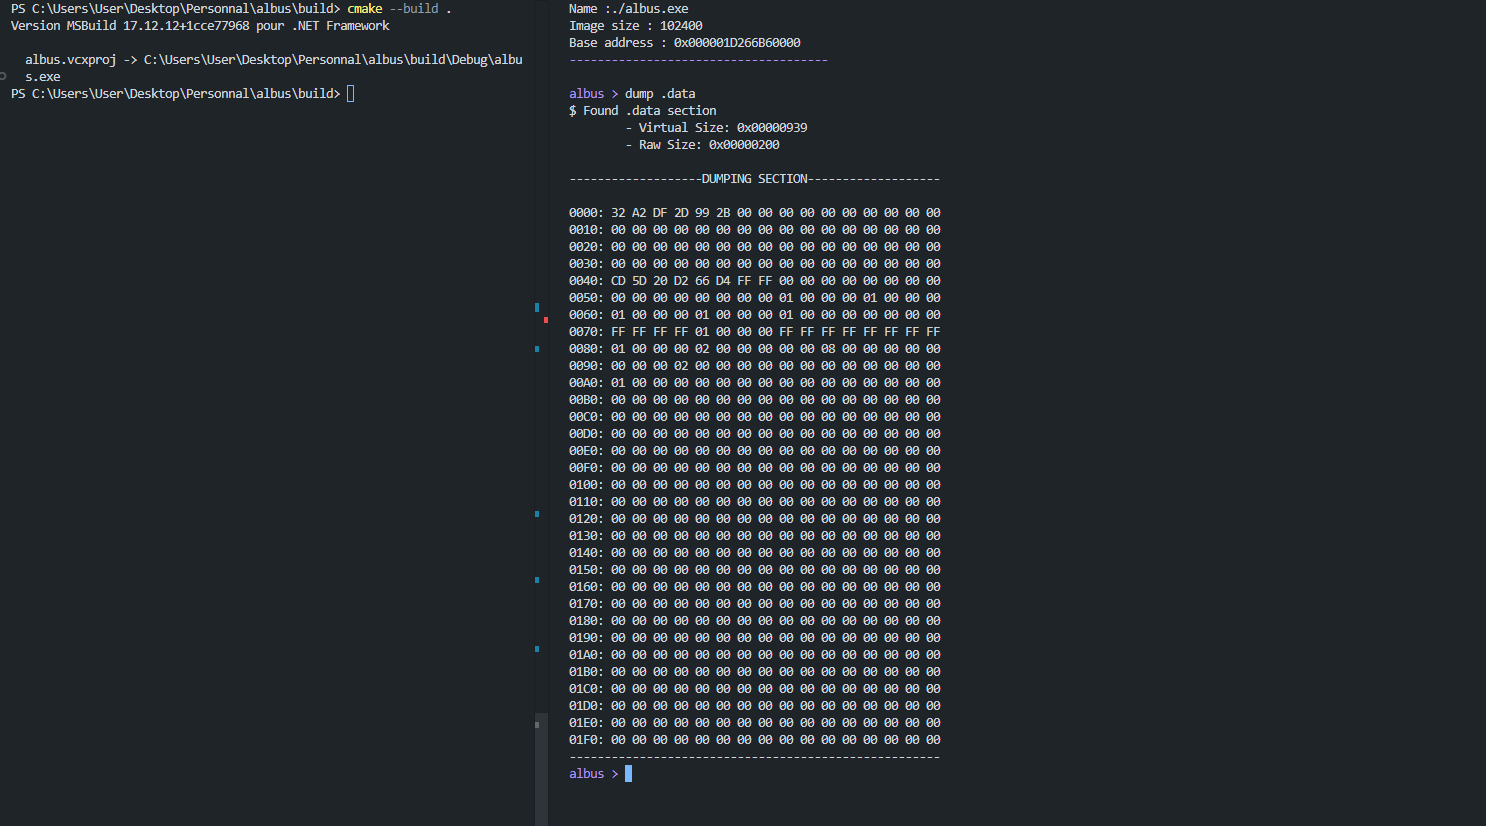
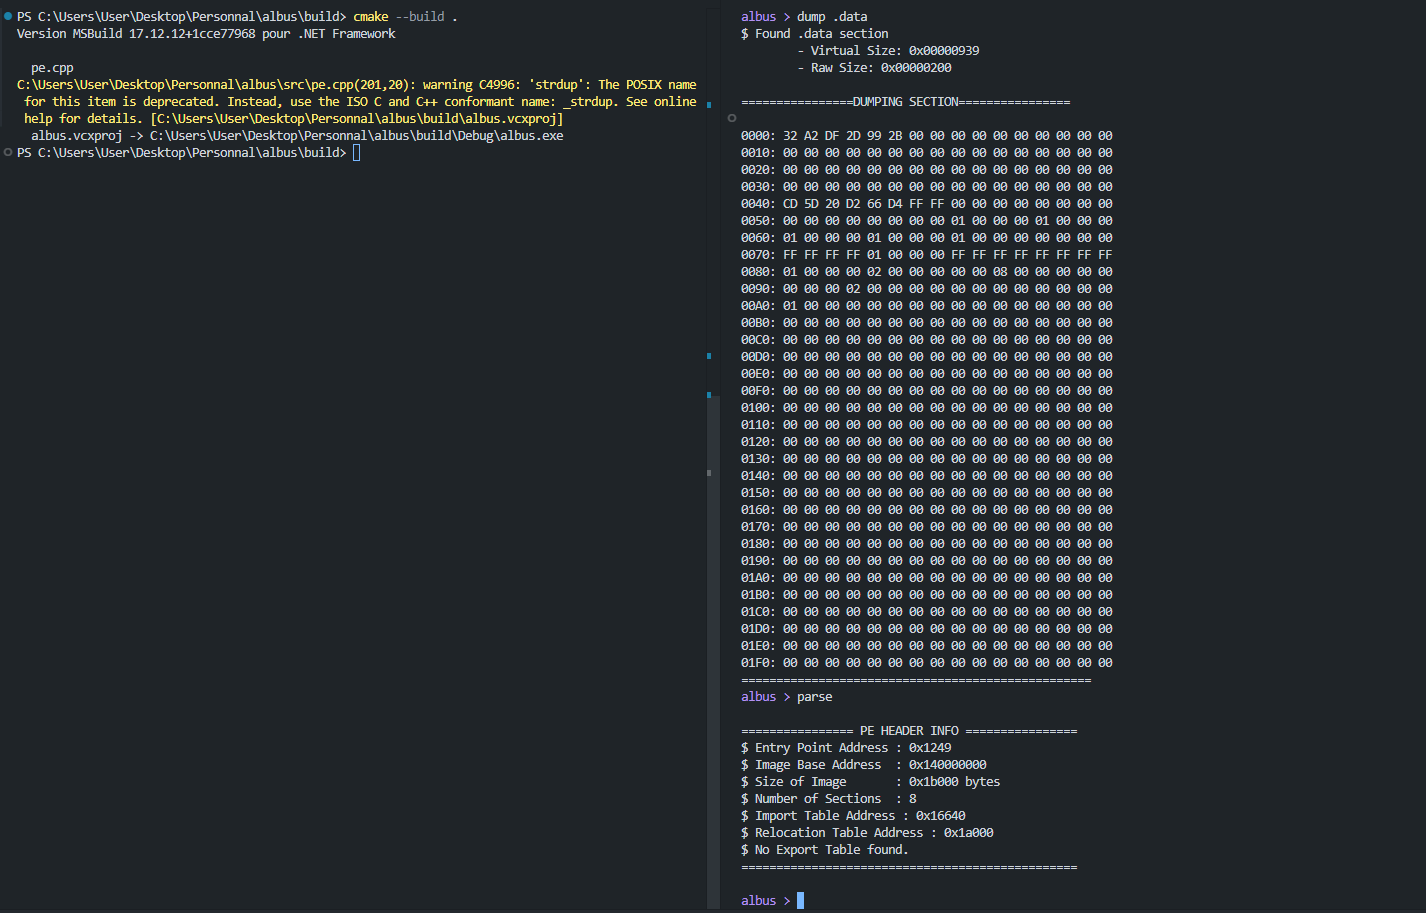
UPDATE : base corrections & new command : parsing

Changed region(s): [[0.0, 0.0, 0.8022, 0.9988]]

diff --git a/src/pe.cpp b/src/pe.cpp
@@ -72,6 +72,7 @@ VOID Pe::Init(){
     this->AddBuiltin("unload", &Pe::Unload);
     this->AddBuiltin("infos", &Pe::Infos);
     this->AddBuiltin("dump", &Pe::Dump);
+    this->AddBuiltin("parse", &Pe::Parse);
 }
 
 /**
@@ -80,14 +81,24 @@ VOID Pe::Init(){
 VOID Pe::Clean(){
     this->dwSizeOfImage = 0;
 
-    if(this->pRawPe)
+    if (this->pBuff) {
+        MEMORY_BASIC_INFORMATION mbi;
+
+        if (VirtualQuery(this->pBuff, &mbi, sizeof(mbi)))
+            VirtualFree(this->pBuff, 0, MEM_RELEASE);
+
+        this->pBuff = nullptr;
+    }
+
+    if(this->pRawPe){
         HeapFree(GetProcessHeap(), 0, this->pRawPe);
+        this->pRawPe = nullptr;
+    }
 
-    if(this->pBuff)
-        VirtualFree(this->pBuff, this->dwSizeOfImage, MEM_RELEASE);
-
-    if(this->lpPath)
+    if(this->lpPath){
         free((VOID*)this->lpPath);
+        this->lpPath = nullptr;
+    }
 }
 
 /**
@@ -114,17 +125,13 @@ VOID Pe::HandleCommand(IN CHAR **args){
  */
 VOID Pe::Infos(IN CHAR**){
     if(this->pBuff){
-        Ft_console::SetBashColor(13);
-        std::cout << "\n-------------------------------------" << std::endl;
-        Ft_console::SetBashColor(7);
+        std::cout << "\n================ LOADED FILE ================" << std::endl;
 
-        std::cout << "LOADED PE INFORMATIONS : \n" << std::endl;
         std::cout << "Name :" << this->lpPath << std::endl;
-        std::cout << "Image size : " << this->dwSizeOfImage << std::endl;
+        std::cout << "Image size : " << this->dwSizeOfImage << " bytes" << std::endl;
         std::cout << "Base address : " << "0x" << static_cast<void*>(this->pBuff) << std::endl;
 
-        Ft_console::SetBashColor(13);
-        std::cout << "-------------------------------------" << std::endl;
+        std::cout << "==============================================" << std::endl;
         Ft_console::SetBashColor(7);
         printf("\n"); 
     }
@@ -140,17 +147,9 @@ VOID Pe::Unload(IN CHAR**){
     if(this->pBuff == nullptr){
         std::cout << "$ No PE mapped. try using help command for mapping a file." << std::endl;
     }
-    else {        
-        VirtualFree(this->pBuff, this->dwSizeOfImage, MEM_RELEASE);
-        std::cout << "$ Successfully unloaded " << this->lpPath << std::endl;
-
-        this->dwSizeOfImage = 0;
-
-        if(this->lpPath)
-            free((VOID*)this->lpPath);
-
-        if(this->pRawPe)
-            HeapFree(GetProcessHeap(), 0, this->pRawPe);
+    else {   
+        this->Clean();
+        std::cout << "$ Successfully unloaded PE file." << std::endl;
     }
 }
 
@@ -203,18 +202,10 @@ VOID Pe::Load(IN CHAR **args){
     this->dwSizeOfImage = pNtHdr->OptionalHeader.SizeOfImage;
 
     std::cout << "\n\n$ Successfully mapped PE into memory.\n" << std::endl;
-
-    if(this->pRawPe)
-        HeapFree(GetProcessHeap(), 0, this->pRawPe);
-        
     return;
 
 __ERROR:
-    if(this->pRawPe)
-        HeapFree(GetProcessHeap(), 0, this->pRawPe);
-    
-    if(this->pBuff)
-        VirtualFree(this->pBuff, pNtHdr->OptionalHeader.SizeOfImage, MEM_RELEASE);
+    this->Clean();
 }
 
 /**
@@ -252,7 +243,8 @@ VOID Pe::Dump(IN CHAR **args){
             printf("\t- Virtual Size: 0x%08X\n", pSection[i].Misc.VirtualSize);
             printf("\t- Raw Size: 0x%08X\n", pSection[i].SizeOfRawData);
 
-            std::cout << "\n-------------------DUMPING SECTION-------------------" << std::endl;
+            std::cout << "\n================DUMPING SECTION================" << std::endl;
+
             BYTE* pStartSection = ((BYTE*)pRawPe + pSection[i].PointerToRawData);
             for(DWORD j = 0; j < pSection[i].SizeOfRawData; j++){
                 if(j % 16 == 0) printf("\n%04X: ", j);
@@ -260,10 +252,69 @@ VOID Pe::Dump(IN CHAR **args){
             }
 
             printf("\n");
-            std::cout << "-----------------------------------------------------" << std::endl;
+            std::cout << "==================================================" << std::endl;
             return;
         }
     }
 
     std::cout << "$ " << cSection << " not found..." << std::endl;
+}
+
+/**
+ * Parsing PE file.
+ */
+VOID Pe::Parse(IN CHAR**){
+    if(this->pBuff == nullptr){
+        std::cout << "$ no loaded PE in memory. use load command, try help command for more informations." << std::endl;
+        return;
+    }
+
+    LPVOID pBaseAddress = (LPVOID)this->pBuff;
+
+    PIMAGE_DOS_HEADER pDosHeader = (PIMAGE_DOS_HEADER)pBaseAddress;
+    if (pDosHeader->e_magic != IMAGE_DOS_SIGNATURE) {
+        std::cout << "$ Invalid PE signature (MZ missing)." << std::endl;
+        return;
+    }
+
+    // Récupérer l'en-tête NT
+    PIMAGE_NT_HEADERS pNtHeaders = (PIMAGE_NT_HEADERS)((BYTE*)pBaseAddress + pDosHeader->e_lfanew);
+    if (pNtHeaders->Signature != IMAGE_NT_SIGNATURE) {
+        std::cout << "$ Invalid PE signature (PE missing)." << std::endl;
+        return;
+    }
+
+    PIMAGE_OPTIONAL_HEADER pOptionalHeader = &pNtHeaders->OptionalHeader;
+
+    std::cout << "\n================ PE HEADER INFO ================\n";
+    std::cout << "$ Entry Point Address : 0x" << std::hex << pOptionalHeader->AddressOfEntryPoint << std::endl;
+    std::cout << "$ Image Base Address  : 0x" << std::hex << pOptionalHeader->ImageBase << std::endl;
+    std::cout << "$ Size of Image       : 0x" << std::hex << pOptionalHeader->SizeOfImage << " bytes" << std::endl;
+    std::cout << "$ Number of Sections  : " << std::dec << pNtHeaders->FileHeader.NumberOfSections << std::endl;
+
+    PIMAGE_DATA_DIRECTORY pImportDirectory = &pOptionalHeader->DataDirectory[IMAGE_DIRECTORY_ENTRY_IMPORT];
+    if (pImportDirectory->VirtualAddress != 0) {
+        std::cout << "$ Import Table Address : 0x" << std::hex << pImportDirectory->VirtualAddress << std::endl;
+    } 
+    else {
+        std::cout << "$ No Import Table found." << std::endl;
+    }
+
+    PIMAGE_DATA_DIRECTORY pRelocDirectory = &pOptionalHeader->DataDirectory[IMAGE_DIRECTORY_ENTRY_BASERELOC];
+    if (pRelocDirectory->VirtualAddress != 0) {
+        std::cout << "$ Relocation Table Address : 0x" << std::hex << pRelocDirectory->VirtualAddress << std::endl;
+    } 
+    else {
+        std::cout << "$ No Relocation Table found." << std::endl;
+    }
+
+    PIMAGE_DATA_DIRECTORY pExportDirectory = &pOptionalHeader->DataDirectory[IMAGE_DIRECTORY_ENTRY_EXPORT];
+    if (pExportDirectory->VirtualAddress != 0) {
+        std::cout << "$ Export Table Address : 0x" << std::hex << pExportDirectory->VirtualAddress << std::endl;
+    } 
+    else {
+        std::cout << "$ No Export Table found." << std::endl;
+    }
+
+    std::cout << "================================================\n" << std::endl;
 }

diff --git a/src/cmd/cmd.cpp b/src/cmd/cmd.cpp
@@ -213,6 +213,7 @@ VOID Cmd::Help(IN CHAR**){
     printf("\t dump <section_name> => dump a given section from the loaded PE file.\n");
     printf("\t unload              => unload PE from memory.\n");
     printf("\t infos               => show informations about loaded PE file (name, path, size)\n");
+    printf("\t parse               => show informations about loaded PE file (more informations than infos command)\n");
 
     std::cout << "\n\n" << std::endl;
 }

diff --git a/include/pe.hpp b/include/pe.hpp
@@ -14,7 +14,7 @@ typedef struct BUILTINS_PE {
 } BUILTINS_PE, *PBUILTINS_PE;
 
 /**
- * Base class.
+ * Base class for PE management.
  */
 class Pe {
     private:
@@ -36,6 +36,7 @@ class Pe {
         //builtins.
         VOID Unload(IN CHAR** = nullptr);
         VOID Infos(IN CHAR** = nullptr);
+        VOID Parse(IN CHAR** = nullptr);
         VOID Load(IN CHAR **args);
         VOID Dump(IN CHAR** args);
 

diff --git a/include/global.hpp b/include/global.hpp
@@ -7,7 +7,7 @@
 #include <iostream>
 #include <windows.h>
 
-#define HASH_TABLE_BUILTINS_SIZE 10
+#define HASH_TABLE_BUILTINS_SIZE 30
 
 //PE mapping & loader needs.
 #define RELOC_32BIT_FIELD 3

diff --git a/README.md b/README.md
@@ -33,11 +33,7 @@
 
 🟢 **PE section DUMP** : DUMP PE section to view it.
 
-🔴 **PE add section** : Add a new section to dedicated PE file.
-
-🔴 **PE perms update** : Updating permissions for a dedicated section
-
-🔴 **IN PROGRESS...**
+🟢 **PE parser** : Show informations about the current loaded PE file.
 
 <br>
 
@@ -61,6 +57,7 @@
 - dump <section_name>  → Dump a given section from the loaded PE file.  
 - unload               → Unload PE from memory.  
 - infos                → Show information about the loaded PE file (name, path, size).  
+- parse                → Show information about the loaded PE file (more infos than infos command). 
 ```
 
 ## BUILD IT :
